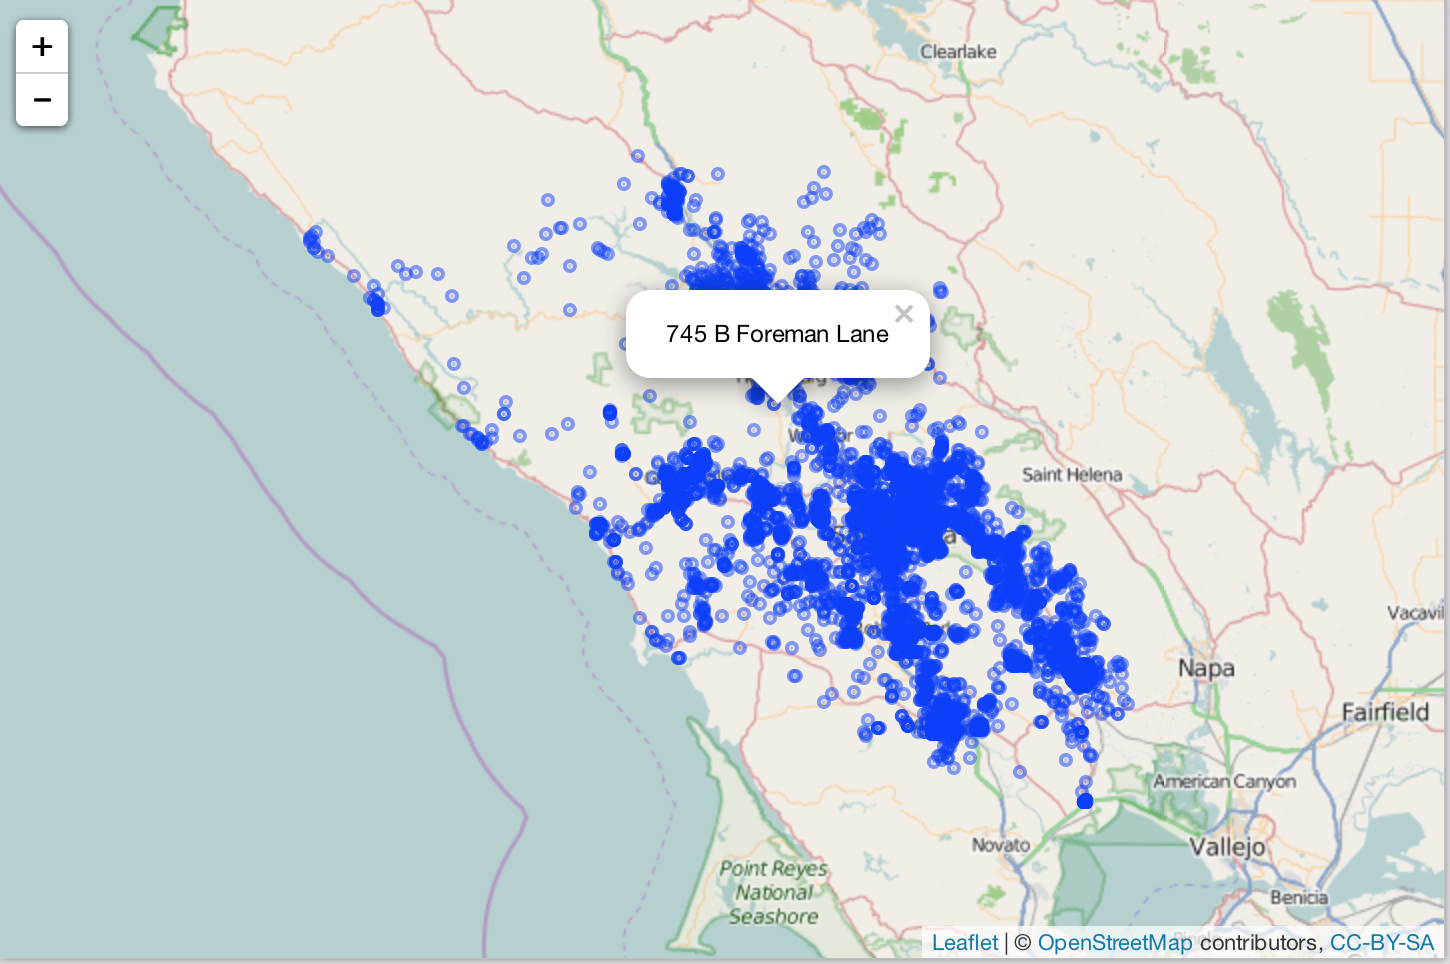
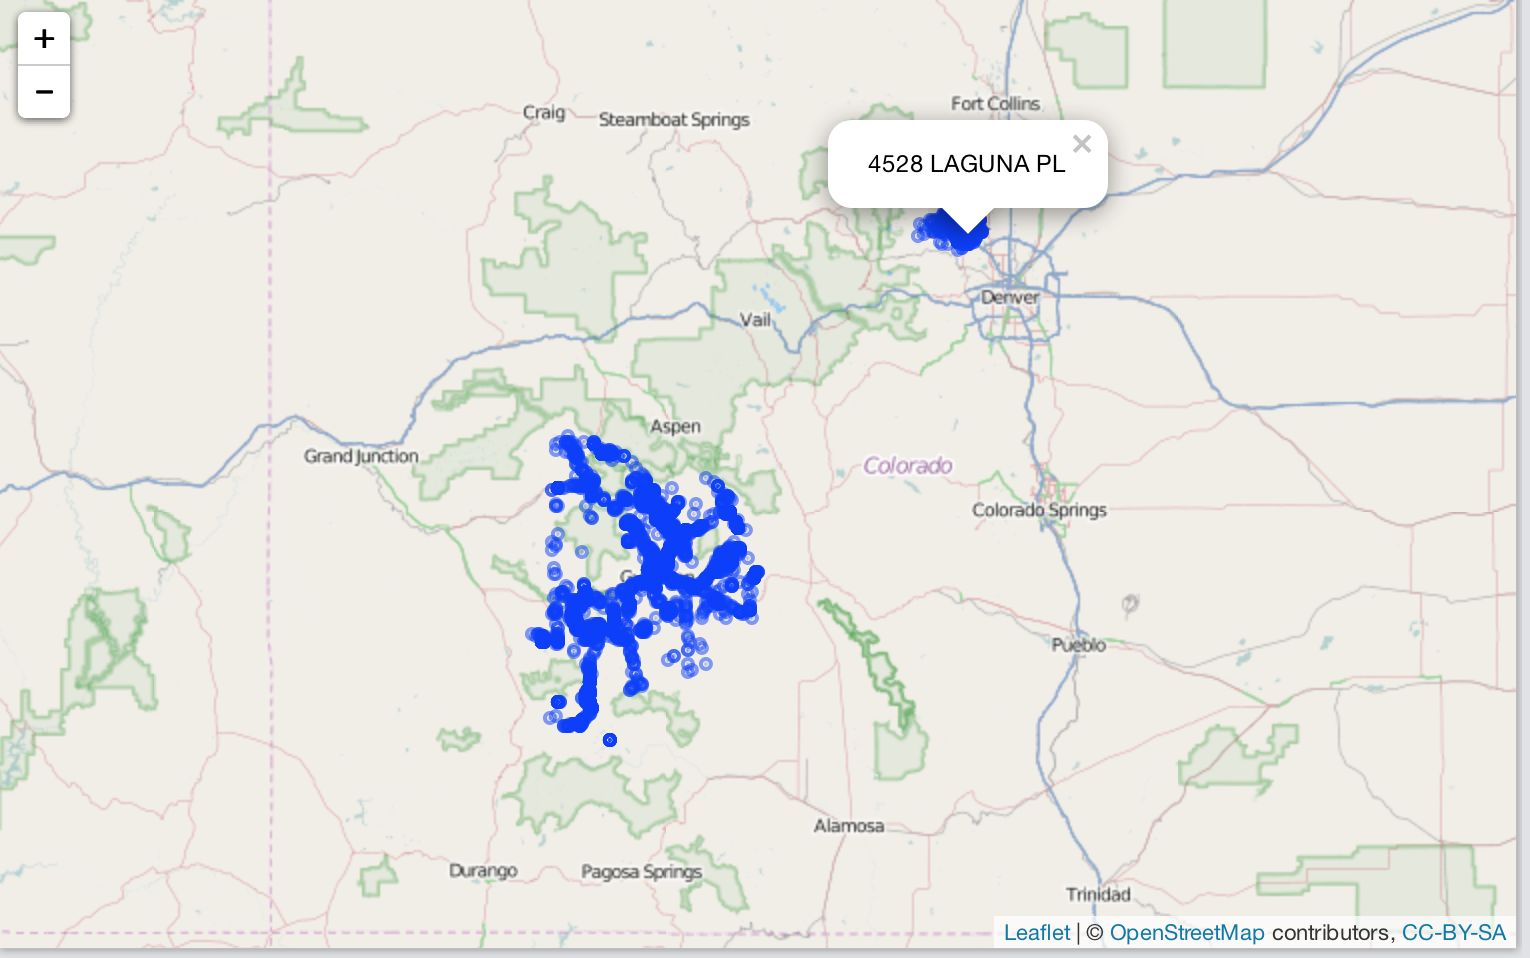
updated readme

diff --git a/README.md b/README.md
@@ -66,21 +66,20 @@ Passing in a URL
 #> <Openaddresses data> ~/.openadds/ca-ab-calgary.zip
 #> Dimensions [350962, 13]
 #> 
-#>    OBJECTID ADDRESS_TY                 ADDRESS    STREET_NAM STREET_TYP
-#> 0    757023     Parcel  249 SAGE MEADOWS CI NW  SAGE MEADOWS         CI
-#> 1    757022     Parcel           2506 17 ST SE            17         ST
-#> 2    757021     Parcel     305 EVANSPARK GD NW     EVANSPARK         GD
-#> 3    757020     Parcel     321 EVANSPARK GD NW     EVANSPARK         GD
-#> 4    757019     Parcel   204 EVANSBROOKE LD NW   EVANSBROOKE         LD
-#> 5    757018     Parcel   200 EVANSBROOKE LD NW   EVANSBROOKE         LD
-#> 6    757017     Parcel 219 HIDDEN VALLEY LD NW HIDDEN VALLEY         LD
-#> 7    757016     Parcel 211 HIDDEN VALLEY LD NW HIDDEN VALLEY         LD
-#> 8    757015     Parcel 364 HIDDEN VALLEY LD NW HIDDEN VALLEY         LD
-#> 9    757014     Parcel 348 HIDDEN VALLEY LD NW HIDDEN VALLEY         LD
-#> ..      ...        ...                     ...           ...        ...
-#> Variables not shown: STREET_QUA (fctr), HOUSE_NUMB (int), HOUSE_ALPH
-#>      (fctr), SUITE_NUMB (int), SUITE_ALPH (fctr), LONGITUDE (dbl),
-#>      LATITUDE (dbl), COMM_NAME (fctr)
+#>    OBJECTID ADDRESS_TY                 ADDRESS    STREET_NAM STREET_TYP STREET_QUA HOUSE_NUMB
+#> 0    757023     Parcel  249 SAGE MEADOWS CI NW  SAGE MEADOWS         CI         NW        249
+#> 1    757022     Parcel           2506 17 ST SE            17         ST         SE       2506
+#> 2    757021     Parcel     305 EVANSPARK GD NW     EVANSPARK         GD         NW        305
+#> 3    757020     Parcel     321 EVANSPARK GD NW     EVANSPARK         GD         NW        321
+#> 4    757019     Parcel   204 EVANSBROOKE LD NW   EVANSBROOKE         LD         NW        204
+#> 5    757018     Parcel   200 EVANSBROOKE LD NW   EVANSBROOKE         LD         NW        200
+#> 6    757017     Parcel 219 HIDDEN VALLEY LD NW HIDDEN VALLEY         LD         NW        219
+#> 7    757016     Parcel 211 HIDDEN VALLEY LD NW HIDDEN VALLEY         LD         NW        211
+#> 8    757015     Parcel 364 HIDDEN VALLEY LD NW HIDDEN VALLEY         LD         NW        364
+#> 9    757014     Parcel 348 HIDDEN VALLEY LD NW HIDDEN VALLEY         LD         NW        348
+#> ..      ...        ...                     ...           ...        ...        ...        ...
+#> Variables not shown: HOUSE_ALPH (fctr), SUITE_NUMB (int), SUITE_ALPH (fctr), LONGITUDE (dbl), LATITUDE
+#>      (dbl), COMM_NAME (fctr)
 ```
 
 First getting URL for dataset through `as_openadd()`, then passing to `oa_get()`
@@ -101,25 +100,22 @@ oa_get(x)
 #> <Openaddresses data> ~/.openadds/us-nm-hidalgo.csv
 #> Dimensions [170659, 37]
 #> 
-#>    OBJECTID Shape ADD_NUM ADD_SUF PRE_MOD PRE_DIR PRE_TYPE         ST_NAME
-#> 1         1    NA     422                       S                      2ND
-#> 2         2    NA    1413                       S                      4TH
-#> 3         3    NA     412                       E                 CHAMPION
-#> 4         4    NA     110                       E                   SAMANO
-#> 5         5    NA    2608                       W          FREDDY GONZALEZ
-#> 6         6    NA    2604                       W          FREDDY GONZALEZ
-#> 7         7    NA    1123                       W                      FAY
-#> 8         8    NA     417                       S                      2ND
-#> 9         9    NA    4551                       E                    TEXAS
-#> 10       10    NA     810                                        DRIFTWOOD
-#> ..      ...   ...     ...     ...     ...     ...      ...             ...
-#> Variables not shown: ST_TYPE (chr), POS_DIR (chr), POS_MOD (chr), ESN
-#>      (int), MSAG_COMM (chr), PARCEL_ID (chr), PLACE_TYPE (chr), LANDMARK
-#>      (chr), BUILDING (chr), UNIT (chr), ROOM (chr), FLOOR (int), LOC_NOTES
-#>      (chr), ST_ALIAS (chr), FULL_ADDR (chr), ZIP (chr), POSTAL_COM (chr),
-#>      MUNICIPAL (chr), COUNTY (chr), STATE (chr), SOURCE (chr), REGION
-#>      (chr), EXCH (chr), LAT (dbl), LONG (dbl), PICTURE (chr), OA:x (dbl),
-#>      OA:y (dbl), OA:geom (chr)
+#>    OBJECTID Shape ADD_NUM ADD_SUF PRE_MOD PRE_DIR PRE_TYPE         ST_NAME ST_TYPE POS_DIR POS_MOD ESN
+#> 1         1    NA     422                       S                      2ND     AVE                 204
+#> 2         2    NA    1413                       S                      4TH     AVE                 204
+#> 3         3    NA     412                       E                 CHAMPION      ST                 204
+#> 4         4    NA     110                       E                   SAMANO      ST                 204
+#> 5         5    NA    2608                       W          FREDDY GONZALEZ      DR                 204
+#> 6         6    NA    2604                       W          FREDDY GONZALEZ      DR                 204
+#> 7         7    NA    1123                       W                      FAY      ST                 204
+#> 8         8    NA     417                       S                      2ND     AVE                 204
+#> 9         9    NA    4551                       E                    TEXAS      RD                 223
+#> 10       10    NA     810                                        DRIFTWOOD      LN                 233
+#> ..      ...   ...     ...     ...     ...     ...      ...             ...     ...     ...     ... ...
+#> Variables not shown: MSAG_COMM (chr), PARCEL_ID (chr), PLACE_TYPE (chr), LANDMARK (chr), BUILDING
+#>      (chr), UNIT (chr), ROOM (chr), FLOOR (int), LOC_NOTES (chr), ST_ALIAS (chr), FULL_ADDR (chr), ZIP
+#>      (chr), POSTAL_COM (chr), MUNICIPAL (chr), COUNTY (chr), STATE (chr), SOURCE (chr), REGION (chr),
+#>      EXCH (chr), LAT (dbl), LONG (dbl), PICTURE (chr), OA:x (dbl), OA:y (dbl), OA:geom (chr)
 ```
 
 ## Combine multiple datasets
@@ -128,20 +124,20 @@ oa_get(x)
 ```r
 out2 <- oa_get(dat[32])
 (alldat <- oa_combine(out1, out2))
-#> Source: local data frame [418,623 x 3]
+#> Source: local data frame [418,623 x 4]
 #> 
-#>          lon      lat                 address
-#> 1  -114.1303 51.17188  249 SAGE MEADOWS CI NW
-#> 2  -114.0190 51.03168           2506 17 ST SE
-#> 3  -114.1175 51.17497     305 EVANSPARK GD NW
-#> 4  -114.1175 51.17461     321 EVANSPARK GD NW
-#> 5  -114.1212 51.16268   204 EVANSBROOKE LD NW
-#> 6  -114.1213 51.16264   200 EVANSBROOKE LD NW
-#> 7  -114.1107 51.14784 219 HIDDEN VALLEY LD NW
-#> 8  -114.1108 51.14768 211 HIDDEN VALLEY LD NW
-#> 9  -114.1121 51.14780 364 HIDDEN VALLEY LD NW
-#> 10 -114.1117 51.14800 348 HIDDEN VALLEY LD NW
-#> ..       ...      ...                     ...
+#>          lon      lat                 address           dataset
+#> 1  -114.1303 51.17188  249 SAGE MEADOWS CI NW ca-ab-calgary.zip
+#> 2  -114.0190 51.03168           2506 17 ST SE ca-ab-calgary.zip
+#> 3  -114.1175 51.17497     305 EVANSPARK GD NW ca-ab-calgary.zip
+#> 4  -114.1175 51.17461     321 EVANSPARK GD NW ca-ab-calgary.zip
+#> 5  -114.1212 51.16268   204 EVANSBROOKE LD NW ca-ab-calgary.zip
+#> 6  -114.1213 51.16264   200 EVANSBROOKE LD NW ca-ab-calgary.zip
+#> 7  -114.1107 51.14784 219 HIDDEN VALLEY LD NW ca-ab-calgary.zip
+#> 8  -114.1108 51.14768 211 HIDDEN VALLEY LD NW ca-ab-calgary.zip
+#> 9  -114.1121 51.14780 364 HIDDEN VALLEY LD NW ca-ab-calgary.zip
+#> 10 -114.1117 51.14800 348 HIDDEN VALLEY LD NW ca-ab-calgary.zip
+#> ..       ...      ...                     ...               ...
 ```
 
 ## Map data
@@ -150,34 +146,19 @@ Get some data
 
 
 ```r
-(out <- oa_get(dat[400]))
-#> <Openaddresses data> ~/.openadds/us-ca-sonoma_county.zip
-#> Dimensions [217243, 5]
-#> 
-#>          LON      LAT  NUMBER          STREET POSTCODE
-#> 1  -122.5327 38.29779 3771  A       Cory Lane       NA
-#> 2  -122.5422 38.30354   18752 White Oak Drive       NA
-#> 3  -122.5412 38.30327   18749 White Oak Drive       NA
-#> 4  -122.3997 38.26122    3552       Napa Road       NA
-#> 5  -122.5425 38.30404    3998 White Oak Court       NA
-#> 6  -122.5429 38.30434    4026 White Oak Court       NA
-#> 7  -122.5430 38.30505    4039 White Oak Court       NA
-#> 8  -122.5417 38.30504    4017 White Oak Court       NA
-#> 9  -122.5409 38.30436   18702 White Oak Drive       NA
-#> 10 -122.5403 38.30392   18684 White Oak Drive       NA
-#> ..       ...      ...     ...             ...      ...
+x <- oa_get(oa_search(country = "us", city = "boulder")[1,]$url)
+y <- oa_get(oa_search(country = "us", city = "gunnison")[1,]$url)
 ```
 
-Make an interactive map (not all data)
+Make an interactive map
 
 
 ```r
 library("leaflet")
-small <- out$data[1:10000L, ]
-leaflet(small) %>%
-   addTiles() %>%
-   addCircles(lat = ~LAT, lng = ~LON,
-      popup = unname(apply(small[, c('NUMBER', 'STREET')], 1, paste, collapse = " ")))
+oa_combine(x, y) %>% 
+  leaflet() %>%
+  addTiles() %>%
+  addCircles(lat = ~lat, lng = ~lon, popup = ~address)
 ```
 
 ![map1](inst/img/map.png)
